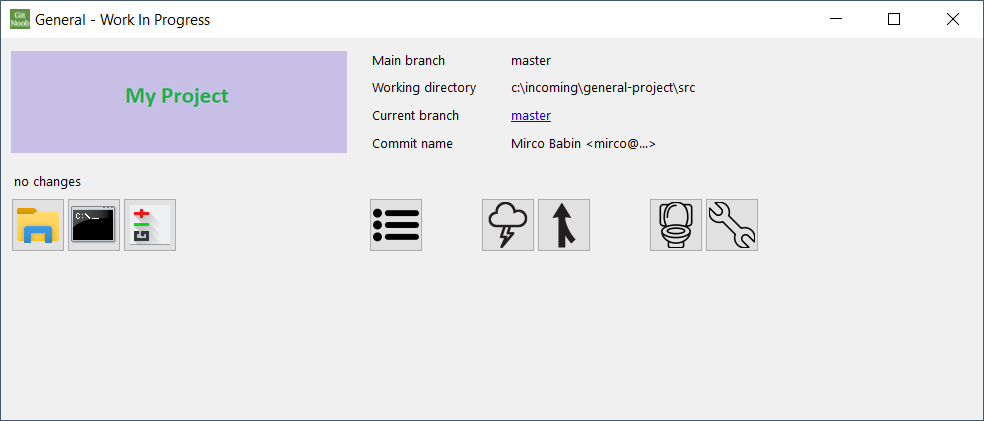
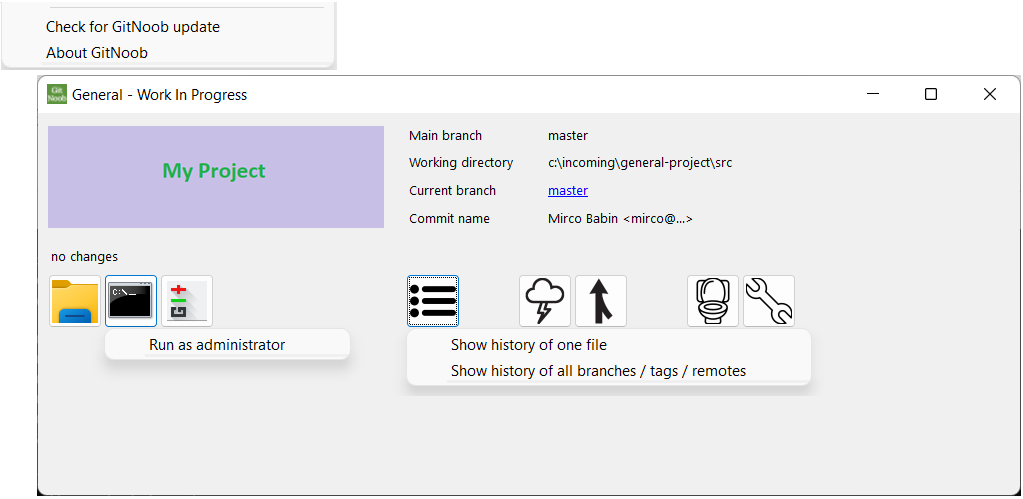
Update readme & screenshot for version 1.16

diff --git a/README.md b/README.md
@@ -7,7 +7,7 @@
 
 **Warning: GitNoob is a very opinionated tool.**
 
-GitNoob is a development tool for the Windows platform. It's purpose is never have to touch the git commandline again. To forget all quirks of git and focus on programming.
+GitNoob is a development tool for the Windows platform. The purpose is never have to touch the git commandline again. To forget all quirks of git and focus on programming.
 
 GitNoob solves the following problems:
 
